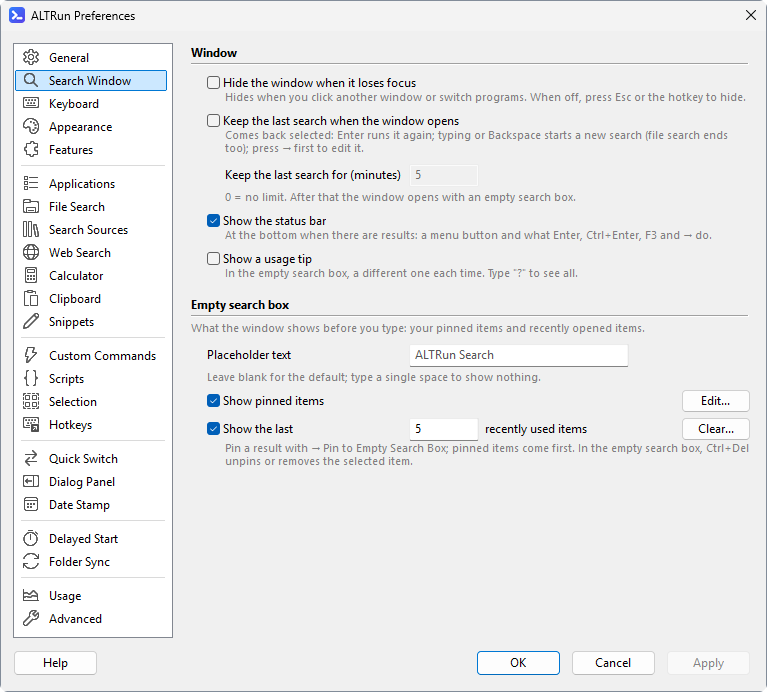
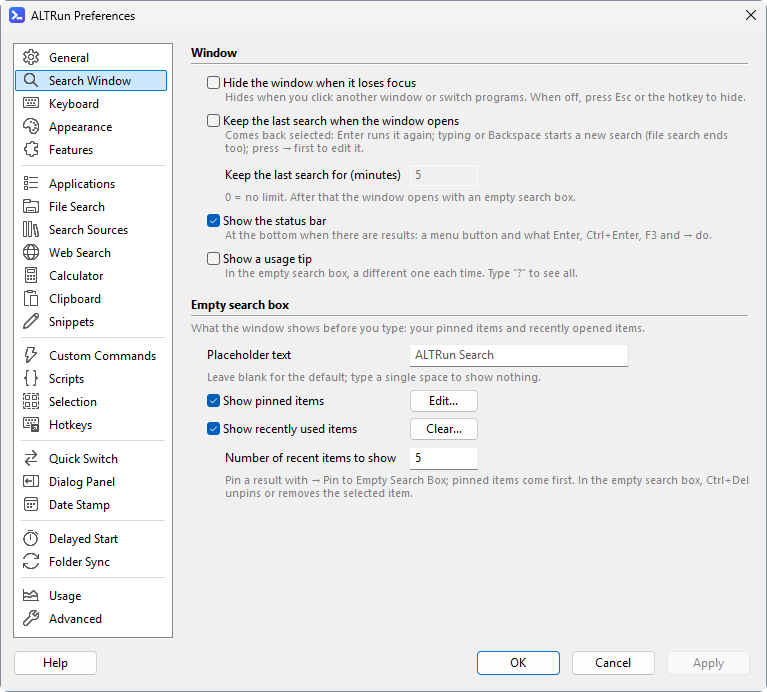
Line Up the Empty Search Box Buttons and Number Box with the Input Boxes (Test Build 2026.11.13.15) (#524)
Preferences → Search Window → Empty search box in one column: Edit... and Clear... at the left edge of the Placeholder box; "Show recently used items" without the number; a new row "Number of recent items to show" (indented, its box lined up with Clear..., grayed out while unchecked). Strings in four languages; Wiki Recent / Recent-zh; prefs-window screenshot. Refs #514

Changed region(s): [[0.2699, 0.5766, 0.9896, 0.7283]]

diff --git a/docs/wiki/Recent.md b/docs/wiki/Recent.md
@@ -5,8 +5,8 @@
 Before you type anything, the search window lists (pinned items have a pin at the bottom right of their icon):
 
 ![Empty search box: pinned and recent items](https://raw.githubusercontent.com/zhugecaomao/ALTRun/main/docs/images/screenshots/empty.png)
-- **Pinned items** (shown by default): on any result, press `→` to open the action panel and choose **Pin to Empty Search Box**. Pinned items are saved in `ALTRun.json` (`Features.Recent.Pinned`), so they travel with your settings to another PC. To change their order or unpin several at once: Preferences → Search Window → Empty search box → "Show pinned items" → **Edit...** (Move Up / Move Down / Unpin)
-- **Recently opened items**: not shown by default; check Preferences → Search Window → Empty search box → "Show the last [5] recently used items" (the number can be changed). **Clear...** next to it forgets them all (pinned items stay)
+- **Pinned items** (shown by default): on any result, press `→` to open the action panel and choose **Pin to Empty Search Box**. Pinned items are your quick favorites in the empty search box (not the same as the dialog panel's [Favorite folders](Quick-Switch-Panel)). Pinned items are saved in `ALTRun.json` (`Features.Recent.Pinned`), so they travel with your settings to another PC. To change their order or unpin several at once: Preferences → Search Window → Empty search box → "Show pinned items" → **Edit...** (Move Up / Move Down / Unpin)
+- **Recently opened items**: not shown by default; check Preferences → Search Window → Empty search box → "Show recently used items"; how many show is set on the row below, "Number of recent items to show" (5 by default). **Clear...** next to the check box forgets them all (pinned items stay)
 - **Gray text in the search box**: "ALTRun Search" by default; change it in Preferences → Search Window → Empty search box → "Placeholder text" (leave blank for the default, or type a single space to show nothing)
 
 ![Preferences → Search Window → Edit...: the pinned items](https://raw.githubusercontent.com/zhugecaomao/ALTRun/main/docs/images/screenshots/pinned-editor.png)

diff --git a/docs/wiki/Recent-zh.md b/docs/wiki/Recent-zh.md
@@ -5,8 +5,8 @@
 呼出搜索窗口还没输入时, 下面直接列出 (置顶的项目图标右下角有一个图钉):
 
 ![空搜索框: 置顶和最近使用](https://raw.githubusercontent.com/zhugecaomao/ALTRun/main/docs/images/screenshots/empty.png)
-- **置顶的项目** (默认显示): 任意一个结果按 `→` 打开操作面板, 选 **置顶到空搜索框**。置顶的项目保存在 `ALTRun.json` 里 (`Features.Recent.Pinned`), 换电脑同步设置时一起带走。要调整顺序或一次取消好几个: 偏好设置 → 搜索窗口 → 空搜索框 → "显示置顶的项目" 旁边的 **编辑...** (上移 / 下移 / 取消置顶)
-- **最近打开的项目**: 默认不显示; 勾上 偏好设置 → 搜索窗口 → 空搜索框 → "显示最近使用的项目, 最多 [5] 个" 就会列出 (个数可以改)。旁边的 **清空...** 一次全部清掉 (置顶的不受影响)
+- **置顶的项目** (默认显示): 任意一个结果按 `→` 打开操作面板, 选 **置顶到空搜索框**。置顶相当于空搜索框里的常用收藏 (和对话框面板的 [收藏的文件夹](Quick-Switch-Panel-zh) 是两回事)。置顶的项目保存在 `ALTRun.json` 里 (`Features.Recent.Pinned`), 换电脑同步设置时一起带走。要调整顺序或一次取消好几个: 偏好设置 → 搜索窗口 → 空搜索框 → "显示置顶的项目" 旁边的 **编辑...** (上移 / 下移 / 取消置顶)
+- **最近打开的项目**: 默认不显示; 勾上 偏好设置 → 搜索窗口 → 空搜索框 → "显示最近使用的项目" 就会列出; 显示几个在下一行 "最近使用的项目显示数量" 里改 (默认 5)。勾选框旁边的 **清空...** 一次全部清掉 (置顶的不受影响)
 - **搜索框里的灰色文字**: 默认 "ALTRun 搜索", 在 偏好设置 → 搜索窗口 → 空搜索框 → "提示文字" 改成自己喜欢的 (留空恢复默认, 写一个空格就什么都不显示)
 
 ![偏好设置 → 搜索窗口 → 编辑...: 置顶的项目](https://raw.githubusercontent.com/zhugecaomao/ALTRun/main/docs/images/screenshots/pinned-editor.png)

diff --git a/CHANGELOG.md b/CHANGELOG.md
@@ -5,6 +5,15 @@
 
 ## [未发布]
 
+## [2026.11.13.15]
+
+测试版。
+
+Test build.
+
+### 改进
+- 偏好设置 → 搜索窗口 → 空搜索框: "编辑..." 和 "清空..." 移到左边, 和上面的提示文字框对齐; 最近使用的个数单独一行 "最近使用的项目显示数量", 数字框和 "清空..." 对齐 (不勾 "显示最近使用的项目" 时变灰) (#514)
+
 ## [2026.11.13.14]
 
 测试版。
@@ -1543,7 +1552,8 @@ Smoother typing, easier to get started, and a few useful new features.
 ## 更早的版本
 见 [GitHub Releases](https://github.com/zhugecaomao/ALTRun/releases)。
 
-[未发布]: https://github.com/zhugecaomao/ALTRun/compare/2026.11.13.14...HEAD
+[未发布]: https://github.com/zhugecaomao/ALTRun/compare/2026.11.13.15...HEAD
+[2026.11.13.15]: https://github.com/zhugecaomao/ALTRun/compare/2026.11.13.14...2026.11.13.15
 [2026.11.13.14]: https://github.com/zhugecaomao/ALTRun/compare/2026.11.13.13...2026.11.13.14
 [2026.11.13.13]: https://github.com/zhugecaomao/ALTRun/compare/2026.11.13.12...2026.11.13.13
 [2026.11.13.12]: https://github.com/zhugecaomao/ALTRun/compare/2026.11.13.11...2026.11.13.12
